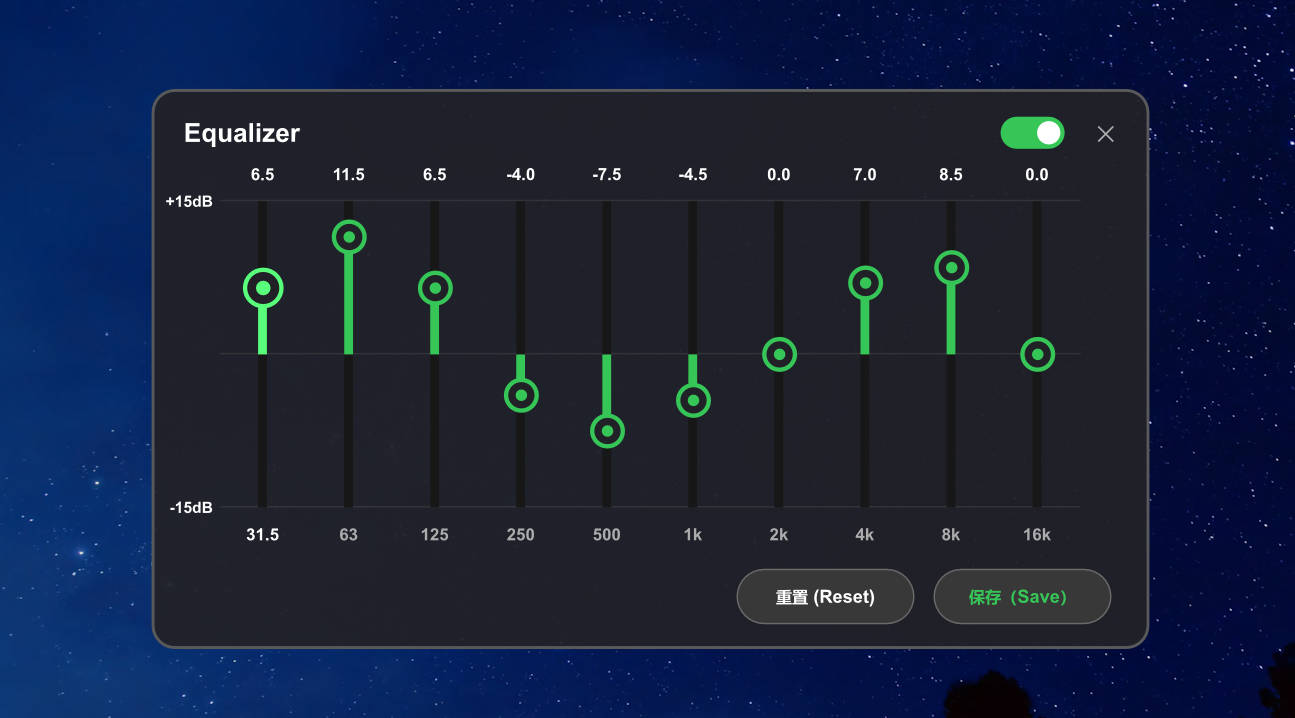
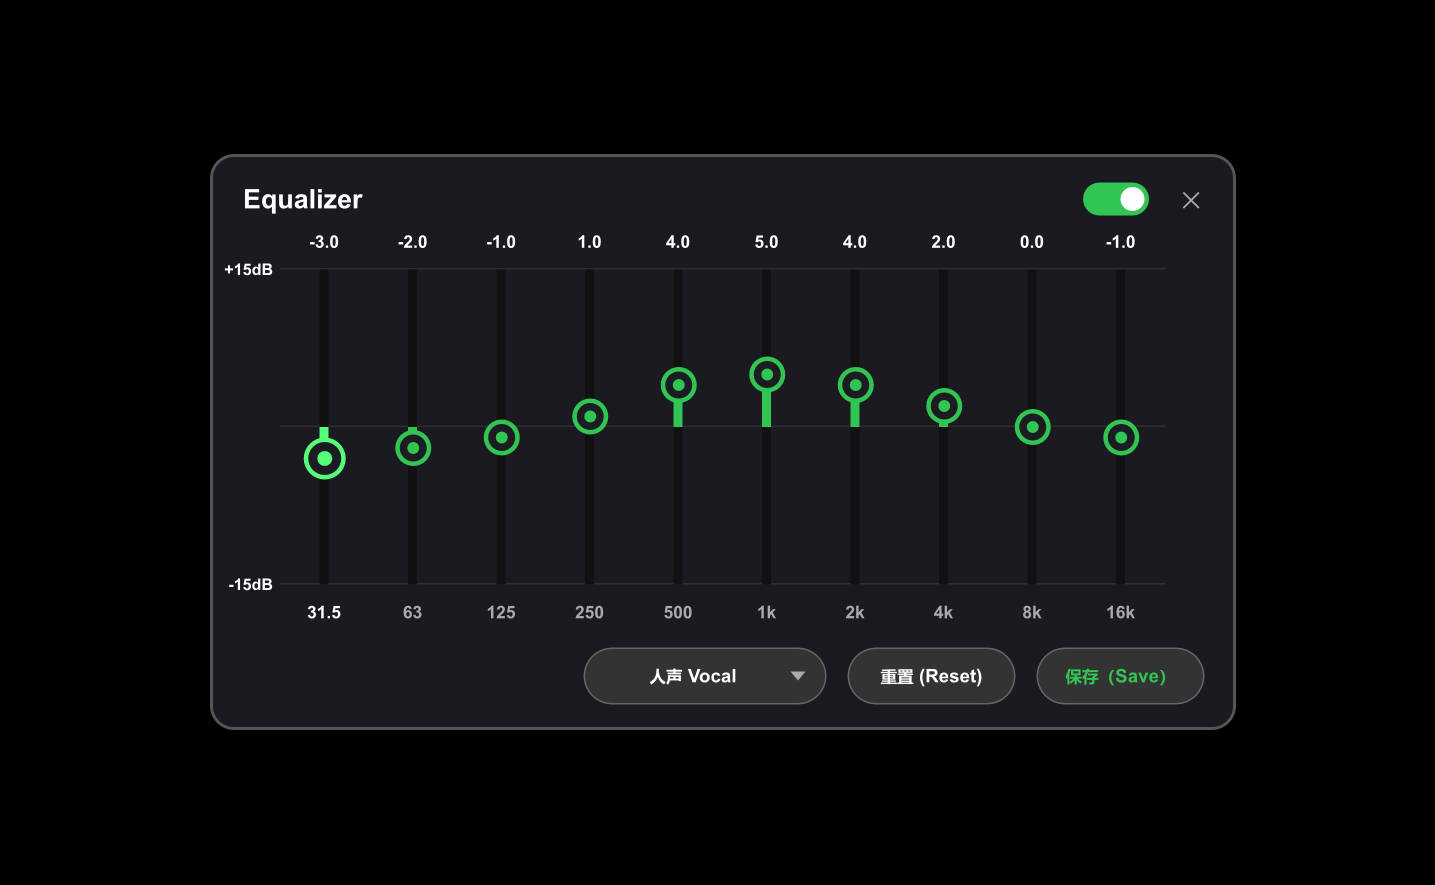
功能：- 增加预设 - 增加声道切换

diff --git a/README.md b/README.md
@@ -2,6 +2,7 @@
 
 - Interactive 10-band audio equalizer GUI script for mpv media player with auto-save and persistence.
 - 一款为 mpv 播放器打造的 10 段图形化音频均衡器（Equalizer GUI） Lua 脚本。具有屏幕分辨率大小自适应、现代设计风格、图形可视化调节、配置持久化自动保存与加载等特性。
+- 支持在不影响当前设置的 eq 情况下切换声道功能
 
 ![image](https://github.com/akFace/equalizer-gui/raw/main/images/Snipaste_2026-08-13_18-08-43.jpg)
 
@@ -28,6 +29,12 @@
 ```
 e  script-message toggle-equalizer-gui  # 打开 / 关闭均衡器面板
 ESC  script-message close-equalizer-gui # 可选-关闭均衡器面板
+
+# 可设置声道快捷键或配合右键菜单插件使用（可选）
+_  script-message audio-channel-auto     #menu: 音频 > 声道 > 自动
+_  script-message audio-channel-stereo   #menu: 音频 > 声道 > 立体声
+_  script-message audio-channel-left     #menu: 音频 > 声道 > 左声道
+_  script-message audio-channel-right    #menu: 音频 > 声道 > 右声道
 ```
 
 | 固定快捷键 | 功能描述                                  |
